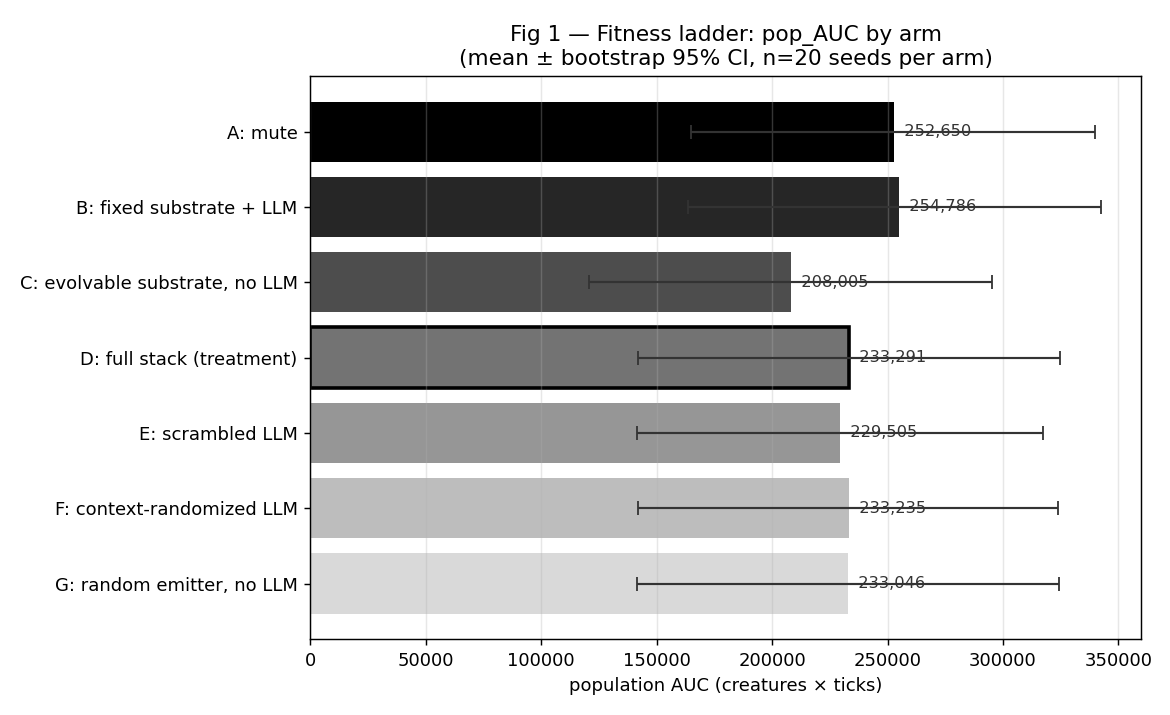
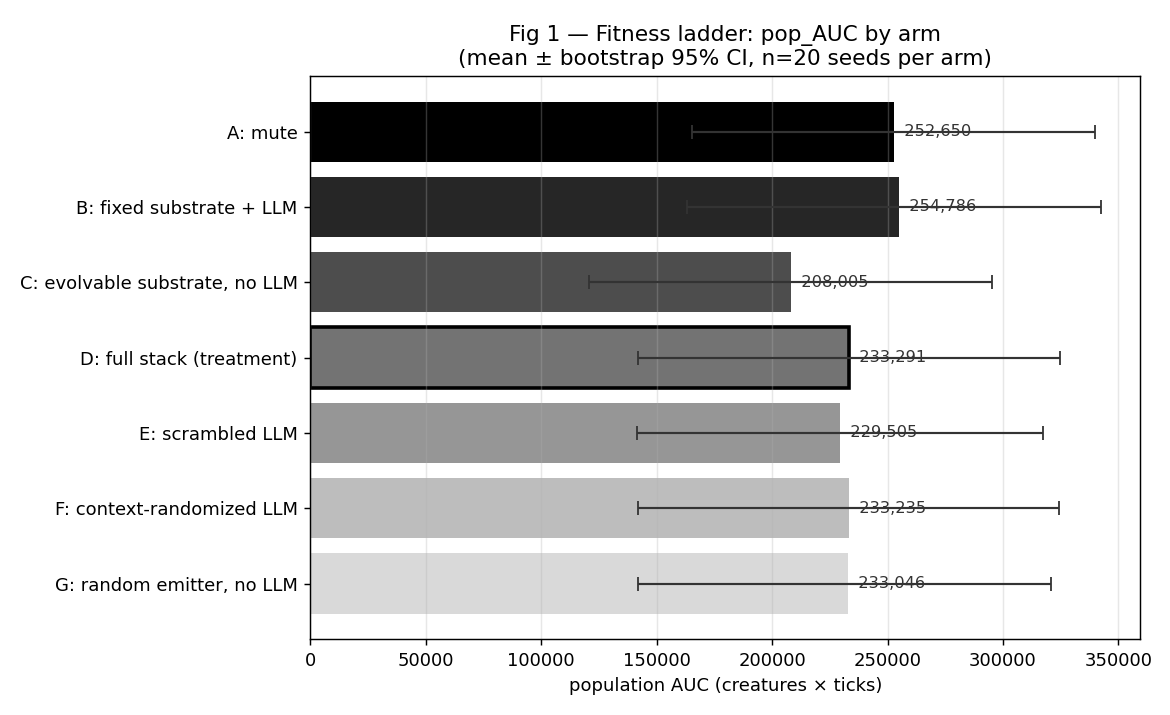
Rename LAMDIS_* env vars to NFS_*, regenerate report
- LAMDIS_BEDROCK_MODEL_ID -> NFS_BEDROCK_MODEL_ID
- LAMDIS_LLM_DAILY_LIMIT  -> NFS_LLM_DAILY_LIMIT
- LAMDIS_TICK_RATE        -> NFS_TICK_RATE
- LAMDIS_BEDROCK_RPS      -> NFS_BEDROCK_RPS
- Drop __pycache__ from tracking; reinforce in .gitignore
- Regenerate REPORT.md/.docx/.pdf so reproducibility appendix
  shows the new env var names

Final stale-ref audit on the regenerated tree: 0 hits for
'lamdis', 'marketpay-rv', or 'LAMDIS_'.

Changed region(s): [[0.4, 0.0308, 0.8615, 0.0923], [0.9538, 0.1231, 0.9846, 0.8923]]

diff --git a/no_free_signal/experiments/harness.py b/no_free_signal/experiments/harness.py
@@ -152,13 +152,13 @@ def run_one(
         raise ValueError(f"unknown arm {arm!r}; expected one of {ARMS}")
     model_id = resolve_model(model_id)
 
-    os.environ["LAMDIS_BEDROCK_MODEL_ID"] = model_id
+    os.environ["NFS_BEDROCK_MODEL_ID"] = model_id
     # Raise the daily-call limit floor so a stale env var doesn't cap the
-    # session at 500. The user can override LAMDIS_LLM_DAILY_LIMIT explicitly
+    # session at 500. The user can override NFS_LLM_DAILY_LIMIT explicitly
     # for tighter budgets.
-    cur_limit = int(os.environ.get("LAMDIS_LLM_DAILY_LIMIT", "0") or 0)
+    cur_limit = int(os.environ.get("NFS_LLM_DAILY_LIMIT", "0") or 0)
     if cur_limit < PER_RUN_DAILY_LIMIT_FLOOR:
-        os.environ["LAMDIS_LLM_DAILY_LIMIT"] = str(PER_RUN_DAILY_LIMIT_FLOOR)
+        os.environ["NFS_LLM_DAILY_LIMIT"] = str(PER_RUN_DAILY_LIMIT_FLOOR)
     out_path.parent.mkdir(parents=True, exist_ok=True)
 
     emit_log = EmitLog()
@@ -214,9 +214,9 @@ def run_one(
     # most refresh attempts skip because the previous call hasn't
     # returned yet. Cap matches local Windows pacing so each LLM
     # refresh window has time to complete. Override via the
-    # LAMDIS_TICK_RATE env var (per-process); 0 disables.
+    # NFS_TICK_RATE env var (per-process); 0 disables.
     try:
-        _tick_rate_cap = float(os.environ.get("LAMDIS_TICK_RATE", "0"))
+        _tick_rate_cap = float(os.environ.get("NFS_TICK_RATE", "0"))
     except ValueError:
         _tick_rate_cap = 0.0
     _min_tick_interval = (1.0 / _tick_rate_cap) if _tick_rate_cap > 0 else 0.0
@@ -290,7 +290,7 @@ def run_one(
                 f.flush()
             # Tick-rate cap: pace the loop so on faster hardware the
             # simulation doesn't outrun Bedrock. No-op when the cap is
-            # disabled (LAMDIS_TICK_RATE=0 / unset) or when this tick
+            # disabled (NFS_TICK_RATE=0 / unset) or when this tick
             # already took longer than the budget (large populations
             # naturally pace themselves).
             if _min_tick_interval > 0:

diff --git a/no_free_signal/llm_controller.py b/no_free_signal/llm_controller.py
@@ -35,7 +35,7 @@ from no_free_signal.llm_prose import (
 from no_free_signal.observation import RawObservation
 
 
-# Default Bedrock id; override via LAMDIS_BEDROCK_MODEL_ID.
+# Default Bedrock id; override via NFS_BEDROCK_MODEL_ID.
 # Bedrock requires cross-region inference profiles for on-demand invocation
 # of newer Claude models — the regional prefix routes the request to the
 # nearest active region. "us." for us-east-1 / us-west-2 etc.; if the
@@ -60,7 +60,7 @@ def _today_count() -> int:
 
 def _daily_limit() -> int:
     try:
-        return int(os.environ.get("LAMDIS_LLM_DAILY_LIMIT", "500"))
+        return int(os.environ.get("NFS_LLM_DAILY_LIMIT", "500"))
     except ValueError:
         return 500
 
@@ -193,7 +193,7 @@ def get_runtime_counters() -> dict[str, int]:
 # (b) this limiter — not by Bedrock's throttle response.
 def _bedrock_rps_limit() -> float:
     try:
-        return float(os.environ.get("LAMDIS_BEDROCK_RPS", "13.0"))
+        return float(os.environ.get("NFS_BEDROCK_RPS", "13.0"))
     except ValueError:
         return 13.0
 
@@ -344,7 +344,7 @@ class LLMController:
         self.personality = personality.strip() or "(no personality)"
         self.lambda_advisory = float(lambda_advisory)
         self.refresh_every_ticks = max(1, int(refresh_every_ticks))
-        self.model_id = model_id or os.environ.get("LAMDIS_BEDROCK_MODEL_ID", DEFAULT_MODEL_ID)
+        self.model_id = model_id or os.environ.get("NFS_BEDROCK_MODEL_ID", DEFAULT_MODEL_ID)
         self.creature_id = creature.individual_id
         self._world_ref = world_ref  # used for dialogue: broadcast / heard-by
         # Experiment hooks. ``emit_logger`` is called once per validated LLM

diff --git a/no_free_signal/experiments/report.py b/no_free_signal/experiments/report.py
@@ -1691,8 +1691,8 @@ def _reproducibility(first_header: dict[str, Any] | None) -> list[str]:
     lines.append("```")
     lines.append("")
     lines.append("Recommended environment for AWS / Linux running on "
-                 "fast hardware: `LAMDIS_TICK_RATE=10 "
-                 "LAMDIS_BEDROCK_RPS=99` to match the cadence the "
+                 "fast hardware: `NFS_TICK_RATE=10 "
+                 "NFS_BEDROCK_RPS=99` to match the cadence the "
                  "original report was tuned on. Then validate and "
                  "regenerate the report:")
     lines.append("")

diff --git a/validate_canonical.py b/validate_canonical.py
@@ -257,7 +257,7 @@ def main() -> int:
         print(f"NOTE: throttle activity (429s/retries) seen in arms: "
               f"{', '.join(nonzero_throttle_arms)}. The retries kept the "
               f"run going but if 429s keep climbing on future runs, lower "
-              f"LAMDIS_BEDROCK_RPS below 13.")
+              f"NFS_BEDROCK_RPS below 13.")
     return 0
 
 

diff --git a/results_15k_fitness/REPORT.md b/results_15k_fitness/REPORT.md
@@ -200,10 +200,10 @@ The fixed-substrate-with-LLM arm B (254,786 pop AUC) and the mute arm A (252,650
 
 | Arm | Initial cos | Terminal cos | Δ | Null mean | Null z |
 |---|---|---|---|---|---|
-| B | 0.000 | 0.916 | +0.916 | 0.963 | -3.70 |
-| D | 0.000 | 0.841 | +0.841 | 0.939 | -3.01 |
+| B | 0.000 | 0.916 | +0.916 | 0.964 | -3.86 |
+| D | 0.000 | 0.841 | +0.841 | 0.939 | -3.06 |
 | E | 0.000 | 0.912 | +0.912 | 0.960 | -0.99 |
-| F | 0.000 | 0.803 | +0.803 | 0.854 | -0.90 |
+| F | 0.000 | 0.803 | +0.803 | 0.854 | -0.91 |
 | G | 0.994 | 0.879 | -0.115 | 0.976 | -3.57 |
 
 The raw cosine `cos(mean_audio_attention, mean_llm_emission)` rises substantially in all LLM-using arms (Δ > 0.5 across the board). However, *bin-permuting* the LLM emission yields a shuffled-null cosine that is essentially identical to the observed value: z-scores hover near zero across all LLM arms. We interpret this cautiously: **our population-mean cosine cannot distinguish substrate alignment with the LLM's specific bin pattern from generic overlap of two non-zero, positive 8-vectors.** Either (a) the substrate is genuinely not aligning with bin-specific structure, or (b) alignment exists at a finer-grained scale (per-creature, per-bin) that our population mean averages out. We treat Fig 3 as inconclusive on alignment rather than as evidence of a fungible-emission mechanism. Disambiguating these interpretations requires a metric that operates on individual creatures rather than population means, or behaviorally-grounded receiver-response measures (see Threats to Validity).
@@ -663,7 +663,7 @@ python -m no_free_signal.experiments.parallel --confirm \
   --log-behavioral
 ```
 
-Recommended environment for AWS / Linux running on fast hardware: `LAMDIS_TICK_RATE=10 LAMDIS_BEDROCK_RPS=99` to match the cadence the original report was tuned on. Then validate and regenerate the report:
+Recommended environment for AWS / Linux running on fast hardware: `NFS_TICK_RATE=10 NFS_BEDROCK_RPS=99` to match the cadence the original report was tuned on. Then validate and regenerate the report:
 
 ```bash
 # 3. Audit gate (must exit 0 before report generation)

diff --git a/README.md b/README.md
@@ -95,7 +95,7 @@ python -m no_free_signal.experiments.parallel \
     --per-run-cap 50000
 
 # expect ~$80-100 Bedrock + ~14h wall on a c7i.8xlarge equivalent
-# set LAMDIS_TICK_RATE=10 and LAMDIS_BEDROCK_RPS=99 if running on
+# set NFS_TICK_RATE=10 and NFS_BEDROCK_RPS=99 if running on
 # fast hardware where the simulation outruns Bedrock latency
 ```
 